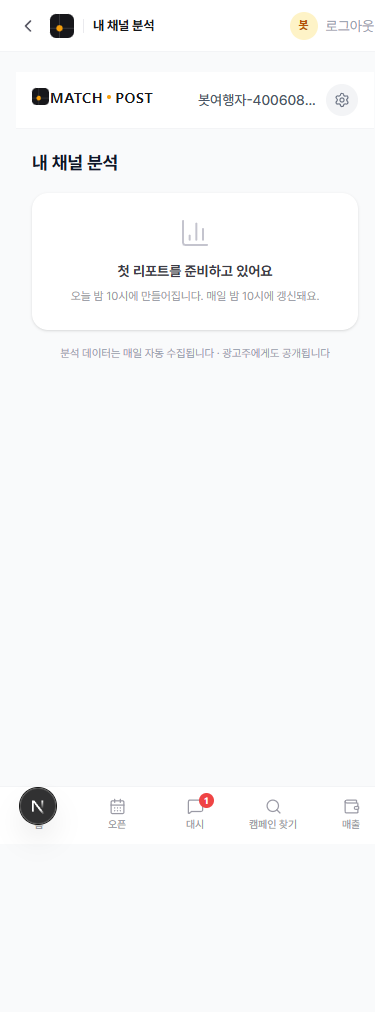
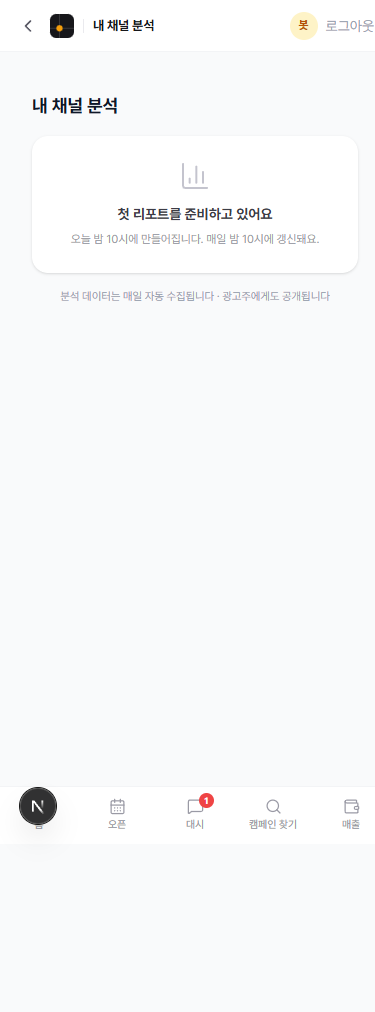
fix(D33): mx-auto 함정 해제 · 이중 헤더 제거 · 함정 두 건 규칙화
[1] day/[date] 가운데 좁은 기둥 해제
    셸의 <main> 은 PC 에서 flex flex-col 이다. 래퍼에 mx-auto 가 남아 있으면
    auto 가로여백이 align-items: stretch 를 무력화해 내용 폭으로 쪼그라든다.
    PC 해제에 max-w-none px-0 은 있었지만 mx-0 이 없어 상쇄되고 있었다.
    「마커가 생기면 해제가 발동한다」가 절반만 맞았다 — 발동은 했고 mx-auto 가 이겼다.

    adv-day · inf-day 첫칸 236px → 1148px. 모바일 358px 무변경.

[2] 이중 헤더 제거 (channel-analytics)
    셸이 상단바를 두 폭 다 준다(모바일용·PC용 각각). 화면이 자기 헤더를 들 이유가 없다.
    호출·import 제거하고 TopBar.tsx 도 지웠다 — 남겨두면 다음 화면에서 또 갖다 붙는다.
    화면 이름은 셸 이름 표에 이미 있다(InfluencerShell — '내 채널 분석').

[3] CLAUDE.md 에 함정 두 건 기록
    - flex 컨테이너 안의 mx-auto: PC 해제는 max-w-none · mx-0 · px-0 세 개가 한 벌
    - 헤더는 셸만 그린다: 헤더를 grep "<header" 로 찾지 말 것(<nav> 인 헤더가 있었다)
    「PC 간격 규정」 절이 없어 「레이아웃 패턴」 아래에 넣었다.

검증: next build 통과. PC·모바일 스윕 45개 화면 전부 통과(512 갇힘 0 · 가로스크롤 0).

⚠ 남은 것: 같은 mx-0 누락이 (dashboard) 안에 20곳 더 있다. 그중 8곳은 이미
   쪼그라들어 있고(inf-schedule-list 234px · adv-notifications 439px 등),
   나머지는 내용이 넓어 우연히 안 드러날 뿐이다. 범위 확정 후 별도 커밋.

diff --git a/src/app/(dashboard)/influencer/channel-analytics/page.tsx b/src/app/(dashboard)/influencer/channel-analytics/page.tsx
@@ -2,7 +2,6 @@ import { redirect } from 'next/navigation'
 import Link from 'next/link'
 import { BarChart3 } from 'lucide-react'
 import { createClient } from '@/lib/supabase/server'
-import TopBar from '@/components/TopBar'
 import { BlogAnalyticsFull } from '@/components/BlogAnalyticsCard'
 import { firstReportLabel } from '@/lib/blogAnalyzer/schedule'
 
@@ -50,9 +49,9 @@ export default async function ChannelAnalyticsPage() {
   const missingMetrics = (blogAnalytics?.missing_metrics as number | null) ?? 0
 
   return (
+    // 셸이 두 폭 다 상단바를 준다(모바일·PC 각각) — 화면이 자기 헤더를 들면 이중 헤더가 된다.
+    // 화면 이름은 셸의 이름 표에 있다(InfluencerShell — '내 채널 분석'). D33
     <div className="min-h-screen bg-gray-50">
-      <TopBar name={profile?.name} />
-
       <main className="max-w-lg mx-auto px-4 py-5 space-y-4 lg:[.inf-pc_&]:max-w-none lg:[.inf-pc_&]:px-0 lg:[.inf-pc_&]:py-0">
         {/* 뒤로가기 */}
         <Link href="/influencer/dashboard" className="hidden lg:[.inf-pc_&]:inline-flex items-center gap-1 text-sm text-gray-500 hover:text-gray-800 transition">

diff --git a/src/app/(dashboard)/day/[date]/page.tsx b/src/app/(dashboard)/day/[date]/page.tsx
@@ -78,7 +78,7 @@ export default async function DayDetailPage({
   const infById = Object.fromEntries((infProfs ?? []).map((i) => [i.user_id, i]))
 
   return (
-    <div className="max-w-lg mx-auto px-4 py-8 lg:[.adv-pc_&]:max-w-none lg:[.adv-pc_&]:px-0 lg:[.adv-pc_&]:py-0 lg:[.inf-pc_&]:max-w-none lg:[.inf-pc_&]:px-0 lg:[.inf-pc_&]:py-0">
+    <div className="max-w-lg mx-auto px-4 py-8 lg:[.adv-pc_&]:max-w-none lg:[.adv-pc_&]:mx-0 lg:[.adv-pc_&]:px-0 lg:[.adv-pc_&]:py-0 lg:[.inf-pc_&]:max-w-none lg:[.inf-pc_&]:mx-0 lg:[.inf-pc_&]:px-0 lg:[.inf-pc_&]:py-0">
       {/* 헤더 */}
       <div className="flex items-center mb-6">
         <Link href="/" className="mr-4 text-gray-400 hover:text-gray-600">

diff --git a/docs/design/d33/MEASURED.md b/docs/design/d33/MEASURED.md
@@ -30,7 +30,7 @@
 | adv-team | /advertiser/team | 1204px | 1204px | 756px | 236px | 390px | 358px | — |  |
 | adv-team-leaves | /advertiser/team/leaves | 1204px | 1204px | 1148px | 236px | 390px | 358px | — | ⚠ div. →398px |
 | adv-team-workload | /advertiser/team/workload | 1204px | 1204px | 1148px | 236px | 390px | 358px | — |  |
-| adv-day | /day/2026-09-07 | 1440px | 512px | 512px | — | 390px | 390px | — |  |
+| adv-day | /day/2026-09-07 | 1204px | 1204px | 1148px | 236px | 390px | 358px | — |  |
 | adv-credits | /credits | 1100px | 1100px | 1068px | — | 390px | 358px | — |  |
 | adv-credits-about | /credits/about | 920px | 920px | 888px | — | 375px | 343px | — |  |
 | adv-profile | /profile | 1440px | 1440px | — | — | 390px | — | — |  |
@@ -45,7 +45,7 @@
 | inf-schedule-new | /influencer/schedule | 1204px | 1204px | 771px | 236px | 390px | 358px | 390px |  |
 | inf-schedule-list | /influencer/schedule/list | 1204px | 1204px | 234px | 236px | 390px | 358px | 390px |  |
 | inf-messages | /influencer/messages | 1204px | 1204px | 1148px | 236px | 390px | 390px | 390px |  |
-| inf-day | /day/2026-09-07 | 1440px | 512px | 512px | — | 390px | 390px | — |  |
+| inf-day | /day/2026-09-07 | 1204px | 1204px | 1148px | 236px | 390px | 358px | 390px |  |
 | inf-schedule-detail | /influencer/schedule/7b241376-fe8d-4c95-a8bd-3c164448952d | 1204px | 1204px | 1148px | 236px | 390px | 358px | 390px |  |
 | inf-message-detail | /influencer/messages/502d50c5-6bf7-442e-b856-e0bfa0ee0700 | 1204px | 1204px | 1148px | 236px | 390px | 390px | 390px |  |
 | pub-influencer-detail | /influencer/2ae784fe-60cf-4801-8c2a-dff7f8d63cff | 672px | 672px | 117px | — | 390px | 117px | — |  |

diff --git a/CLAUDE.md b/CLAUDE.md
@@ -226,6 +226,22 @@ npx tsc --noEmit   # 에러 0건 확인 후 git push
 - **관리자/공개 좁은 페이지**: `max-w-4xl mx-auto px-4 py-8` (또는 `max-w-5xl`)
 - **PC 필터 사이드바**: `284px` sticky `top-[84px]`
 
+### flex 컨테이너 안의 mx-auto (고정)
+- 셸의 `<main>` 은 PC 에서 `flex flex-col` 이다. 그 안의 래퍼에 `mx-auto` 가 남아 있으면
+  auto 가로여백이 `align-items: stretch` 를 무력화해 **내용 폭으로 쪼그라든다**
+- 그래서 PC 해제는 `max-w-none px-0` 만으로는 부족하다 — **`mx-0` 을 함께** 줘야 한다
+- 모바일용 `max-w-lg mx-auto` 를 PC 에서 풀 때는 세 개가 한 벌이다:
+  `lg:[.adv-pc_&]:max-w-none lg:[.adv-pc_&]:mx-0 lg:[.adv-pc_&]:px-0`
+- 증상이 「갇힘」이 아니라 「가운데 좁은 기둥」으로 나타나서 폭 문제로 안 보인다
+- 같은 부류가 D33 에서 네 번 나왔다 — 화면이 자기를 좁히는 것 · UA 판정 ·
+  마커가 항상 켜지는 것 · 이 mx-auto. **폭이 이상하면 폭 클래스보다 판정·조상을 먼저 의심한다**
+
+### 헤더는 셸만 그린다 (고정)
+- 셸이 상단바를 **두 폭 다** 준다(모바일용·PC용 각각). 화면이 자기 헤더를 들면 이중 헤더가 된다
+- 화면 제목이 필요하면 셸의 화면 이름 표에 넣는다(`InfluencerShell` 상단 `match/title` 배열)
+- ⚠ 헤더를 찾을 때 `grep "<header"` 로 찾지 말 것 — 태그가 `<nav>` 인 헤더가 있었다.
+  **태그가 아니라 컴포넌트 이름으로 찾는다**
+
 ### 컴포넌트 패턴
 
 #### 카드
